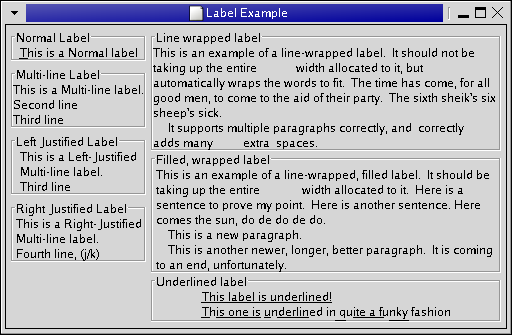
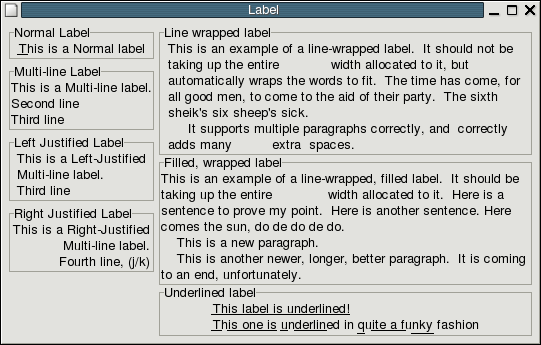
Added move_column_to_start(), which uses gtk_tree_view_move_column_after()
2004-03-25  Andrew E. Makeev  <andrew@solvo.ru>

        * gtk/src/treeview.hg, gtk/src/treeview.ccg: Added move_column_to_start(),
  which uses gtk_tree_view_move_column_after() with a 0 parameter.

diff --git a/examples/book/label/examplewindow.cc b/examples/book/label/examplewindow.cc
@@ -53,7 +53,7 @@ ExampleWindow::ExampleWindow()
   m_Frame_Left.add(m_Label_Left);
   m_VBox.pack_start(m_Frame_Left, Gtk::PACK_SHRINK);
 
-  m_Label_Right.set_justify(Gtk::JUSTIFY_LEFT);
+  m_Label_Right.set_justify(Gtk::JUSTIFY_RIGHT);
   m_Frame_Right.add(m_Label_Right);
   m_VBox.pack_start(m_Frame_Right, Gtk::PACK_SHRINK);
 
